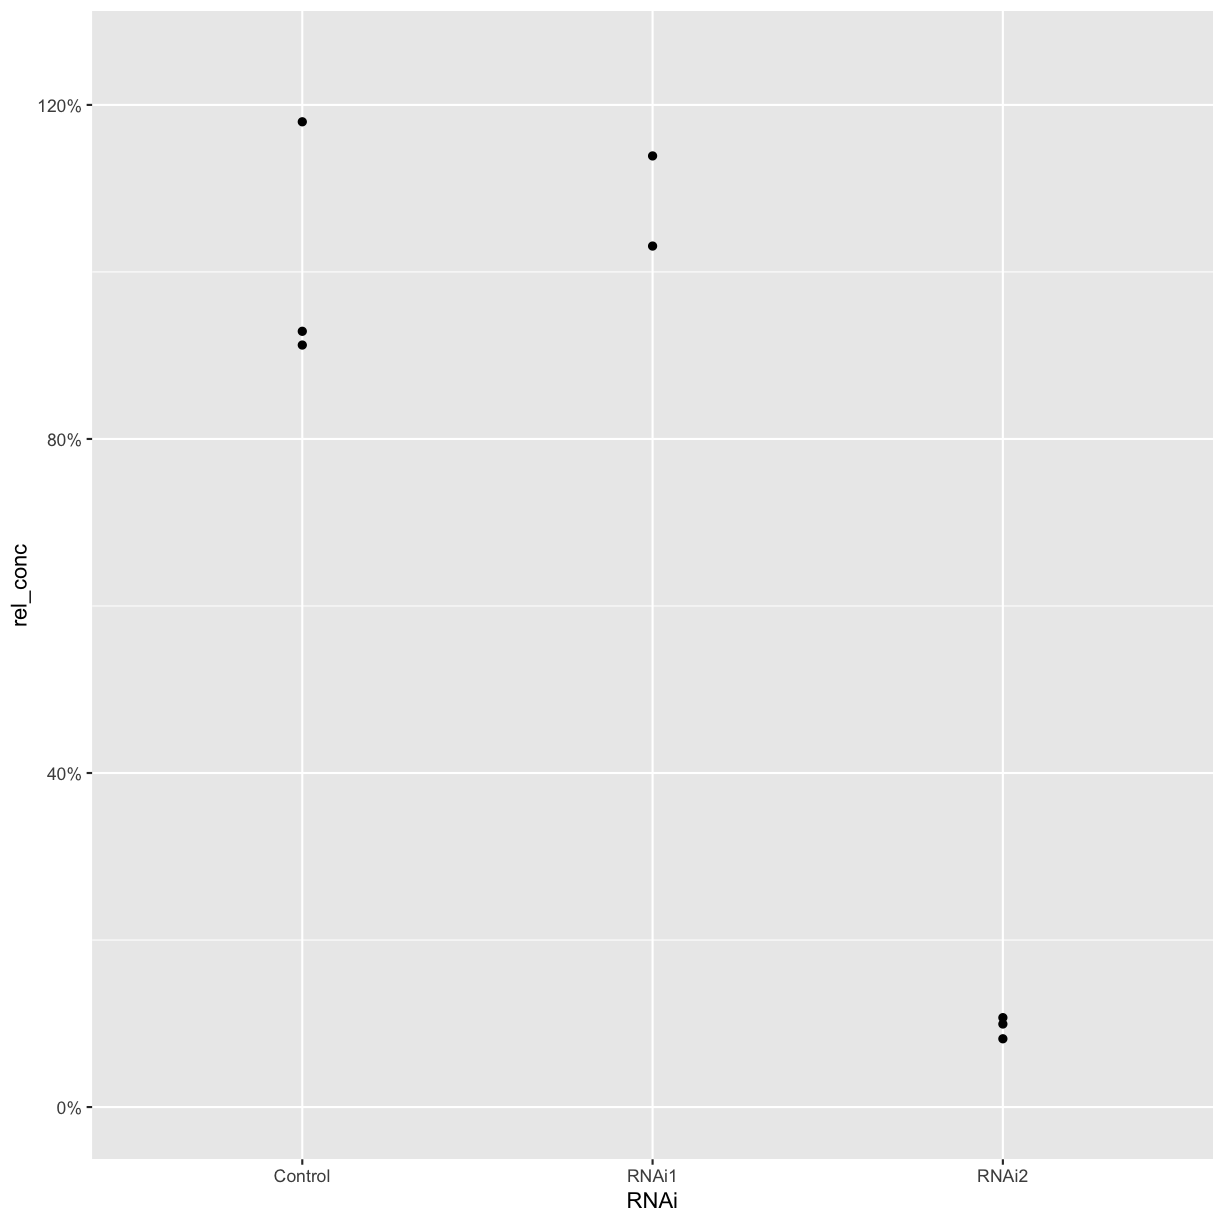
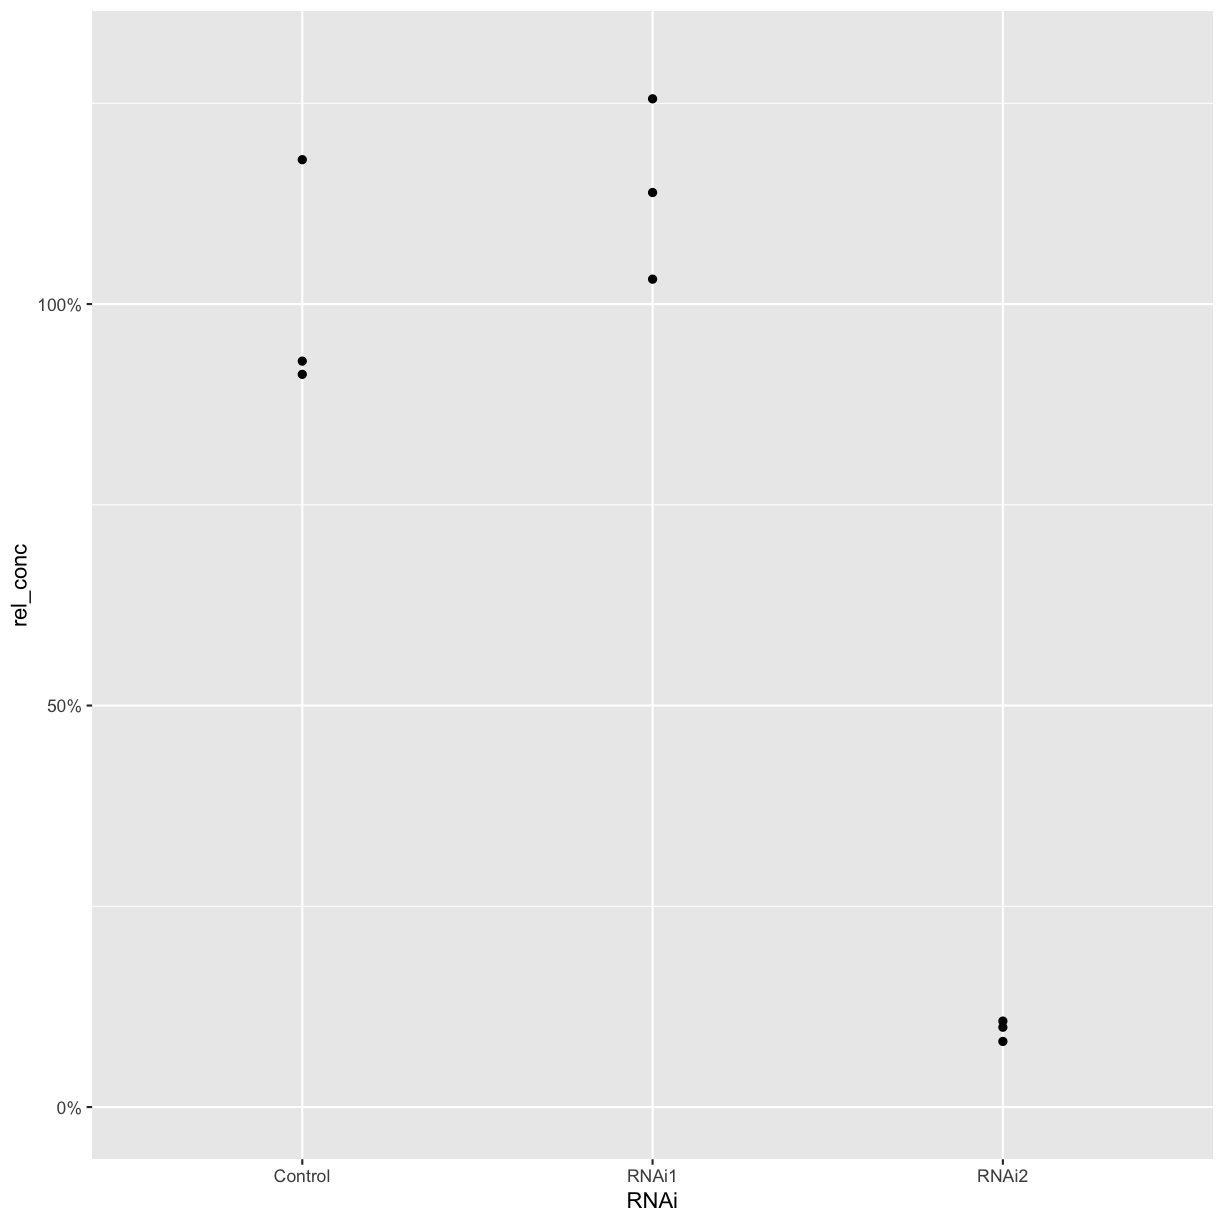
simplified final plotting challenge

diff --git a/_episodes/02-analyse-data.md b/_episodes/02-analyse-data.md
@@ -268,16 +268,9 @@ We can now plot the relative concentration.
 ~~~
 ggplot(combined_data, aes(x = RNAi, y = rel_conc)) +
   geom_point() +
-  scale_y_continuous(labels = scales::percent, limits = c(0, 1.25))
+  scale_y_continuous(labels = scales::percent, limits = c(0, 1.3))
 ~~~
 {: .language-r}
-
-
-
-~~~
-Warning: Removed 1 rows containing missing values (geom_point).
-~~~
-{: .error}
 
 <img src="../fig/rmd-02-unnamed-chunk-12-1.png" title="plot of chunk unnamed-chunk-12" alt="plot of chunk unnamed-chunk-12" width="612" style="display: block; margin: auto;" />
 
